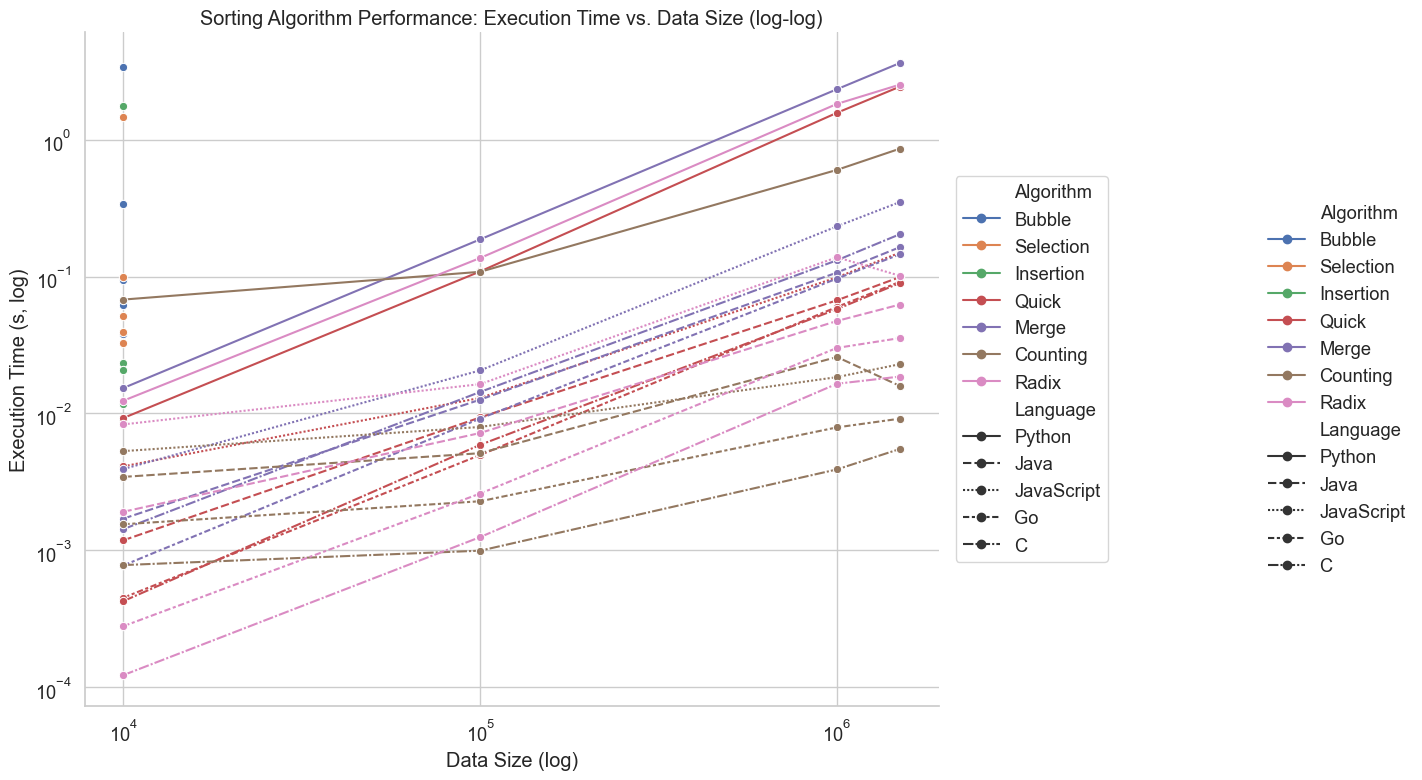
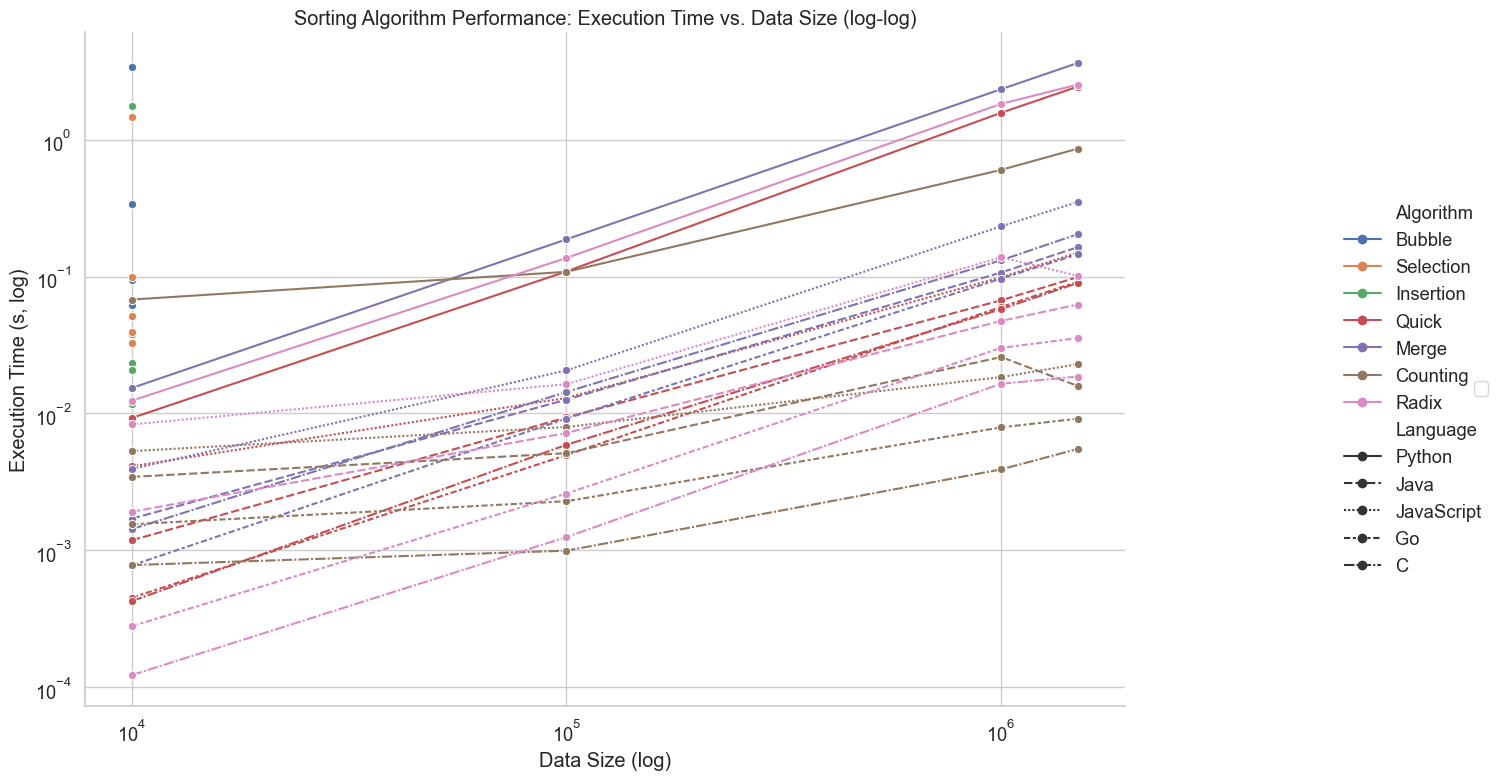
fixed legend duplicated

diff --git a/compare-sort-algorithms/scripts/visualize_results.py b/compare-sort-algorithms/scripts/visualize_results.py
@@ -70,9 +70,7 @@ g.set(xscale="log", yscale="log")
 g.set_axis_labels("Data Size (log)", "Execution Time (s, log)")
 plt.title("Sorting Algorithm Performance: Execution Time vs. Data Size (log-log)")
 
-# Move legend outside the plot using FacetGrid's legend method
-handles, labels = g.ax.get_legend_handles_labels()
-g.ax.legend(handles=handles, labels=labels, loc='center left', bbox_to_anchor=(1.02, 0.5), borderaxespad=0., frameon=True)
+g.add_legend(bbox_to_anchor=(1.02, 0.5), loc='center left', frameon=True)
 plt.tight_layout(rect=(0, 0, 0.8, 1))  # Leave space for legend
 
 # Save the figure to the docs directory
